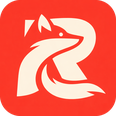
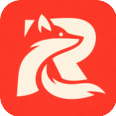
CC 图标改纯狐狸剪影；设置页图标维持原样

diff --git a/debs/ReynardDefault/tests/icon_check.py b/debs/ReynardDefault/tests/icon_check.py
@@ -41,17 +41,20 @@ for name, size in [("icon.png", 29), ("icon@2x.png", 58), ("icon@3x.png", 87)]:
         check(im.convert("RGBA").getpixel((0, 0))[3] < 40, f"{name} corner is transparent")
         check(im.convert("RGBA").getpixel((size // 2, size // 2))[3] == 255, f"{name} centre is opaque")
 
-for name, size in [("SettingsIcon@2x.png", 116), ("SettingsIcon@3x.png", 174)]:
+for name, size, want in [("SettingsIcon@2x.png", (116, 116), "40f3"), ("SettingsIcon@3x.png", (174, 174), "9b1e")]:
     p = CCRES / name
-    check(p.is_file(), f"{name} kept")
+    check(p.is_file() and Image.open(p).size == size, f"{name} kept {size}")
     if p.is_file():
-        check(Image.open(p).size == (size, size), f"{name} stays {size}x{size}")
+        check(Image.open(p).mode == "RGBA", f"{name} stays the coloured image")
 
 for name, size in [("icon@2x.png", (140, 192)), ("icon@3x.png", (210, 288))]:
     p = CCRES / name
-    check(p.is_file() and Image.open(p).size == size, f"CC glyph {name} untouched {size}")
+    check(p.is_file() and Image.open(p).size == size, f"CC glyph {name} canvas {size}")
     if p.is_file():
-        check(Image.open(p).mode == "LA", f"CC glyph {name} stays a template (LA)")
+        g = Image.open(p).convert("RGBA")
+        check(g.mode == "RGBA" and Image.open(p).mode == "LA", f"CC glyph {name} stays a template (LA)")
+        check(g.getpixel((0, 0))[3] == 0, f"CC glyph {name} has no coloured block (transparent corner)")
+        check(any(a > 200 for a in g.split()[3].getdata()), f"CC glyph {name} is not empty")
 
 print(f"\n{len(fails)} failure(s)")
 sys.exit(1 if fails else 0)

diff --git a/debs/ReynardDefault/README.md b/debs/ReynardDefault/README.md
@@ -12,11 +12,13 @@ When enabled, any link that would normally open in Safari is intercepted at the 
 
 ## Icon
 
-The Settings row and Control Centre artwork use Reynard's app icon from
+The Settings row icon uses Reynard's app icon from
 [minh-ton/reynard-browser](https://github.com/minh-ton/reynard-browser)
-(`browser/Reynard/Resources/Assets.xcassets/AppIcon.appiconset/icon.png`).
-Rendered at 29/58/87 px for the Settings row and 116/174 px for the Control
-Centre settings icon, with the rounded mask baked in.
+(`browser/Reynard/Resources/Assets.xcassets/AppIcon.appiconset/icon.png`),
+rendered at 29/58/87 px with the rounded mask baked in. The Settings →
+Control Center icon (116/174 px) is the upstream artwork and is left alone.
+The Control Centre toggle itself uses the fox alone as a plain template
+silhouette, so the tile keeps the system look instead of an orange block.
 
 ## Requirements
 
